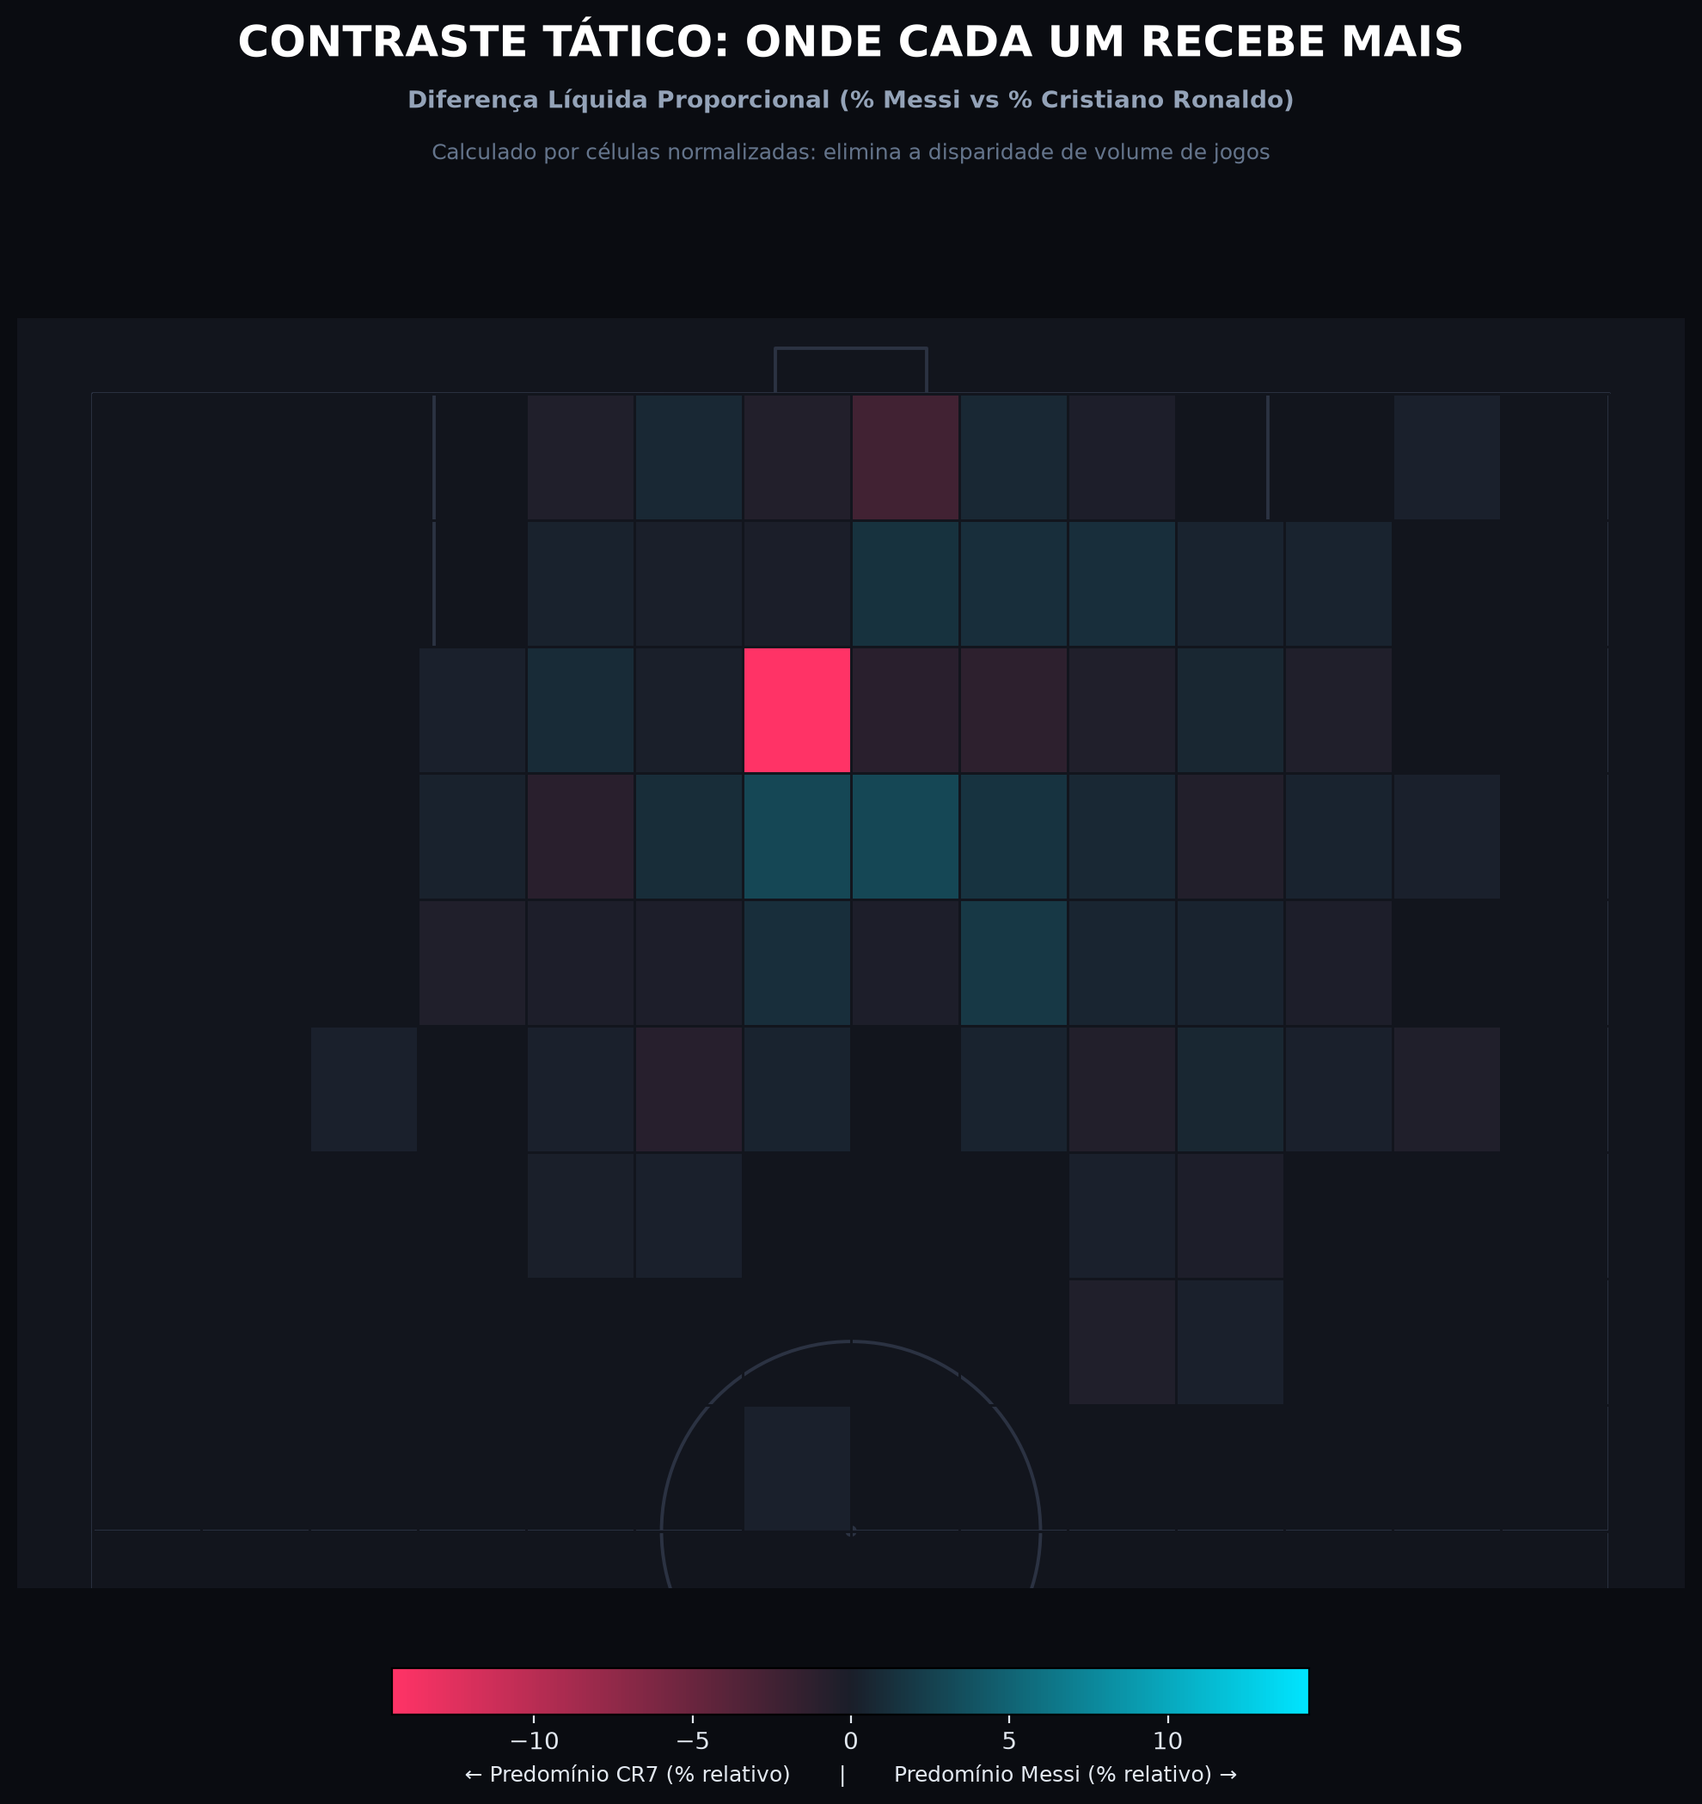
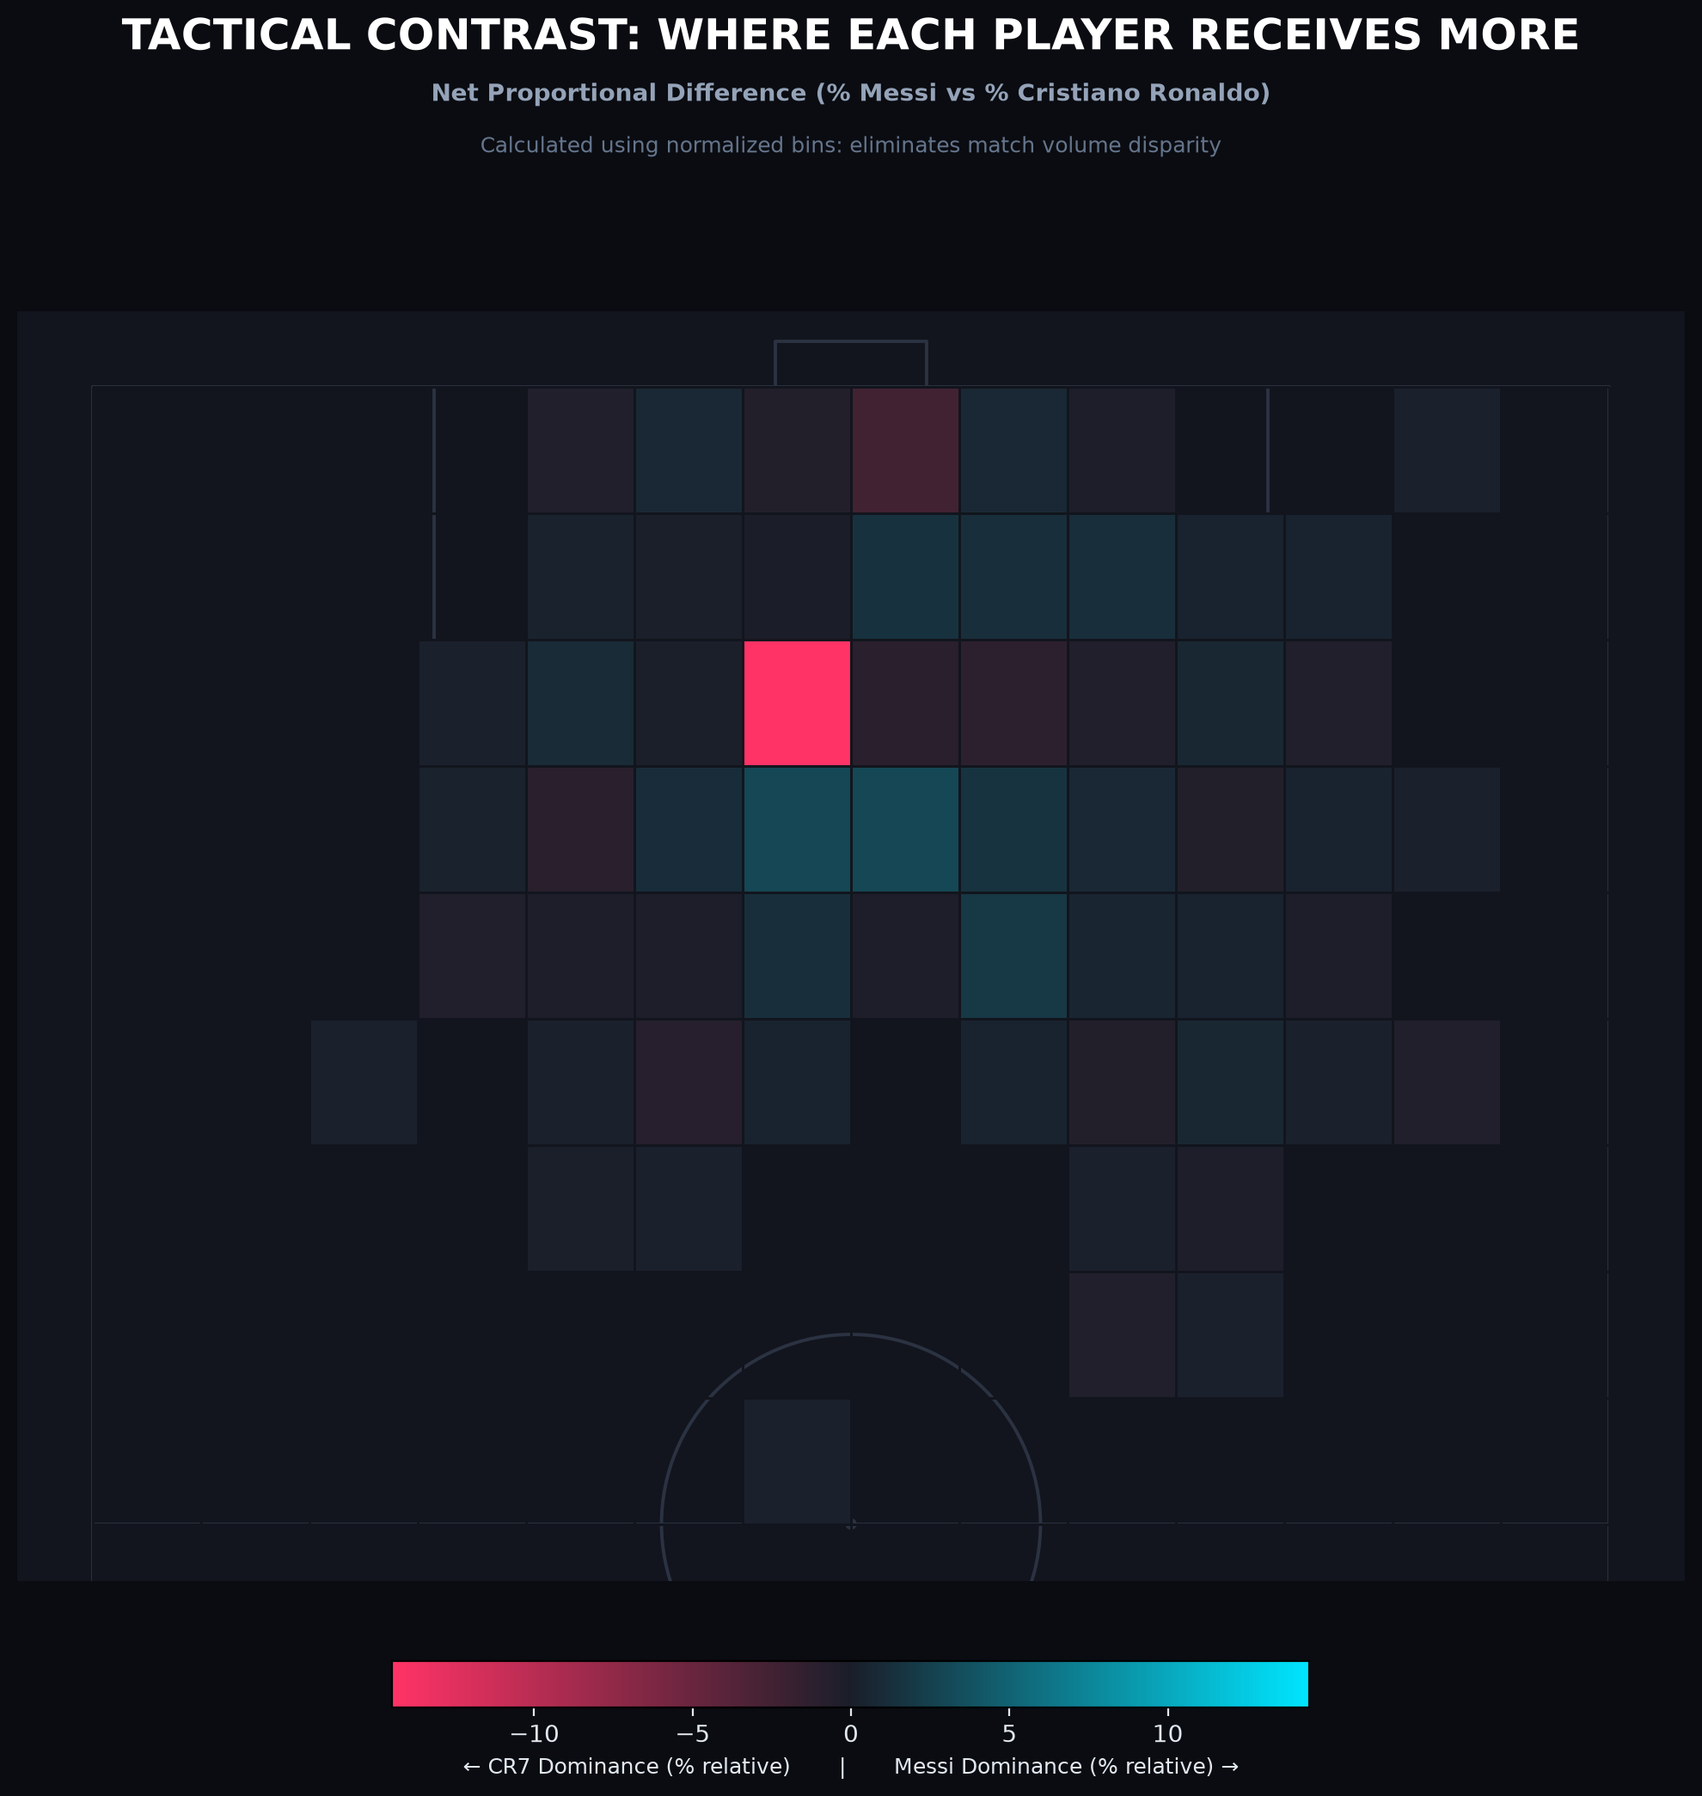
feat(assets): regenerate tactical charts with English annotations

diff --git a/visualizar_origem_gols_carreira.py b/visualizar_origem_gols_carreira.py
@@ -91,10 +91,10 @@ def plot_receipt_points_individual(df_goals, player_name, color, filename):
     )
     
     fig.text(0.5, 0.94, player_name.upper(), fontsize=21, fontweight="bold", color="#ffffff", ha="center")
-    fig.text(0.5, 0.915, "PONTOS DE RECEPÇÃO DA BOLA NOS LANCES DE GOL", fontsize=10, fontweight="bold", color=color, ha="center")
-    fig.text(0.5, 0.89, f"Total: {len(df_goals)} gols mapeados  |  Distância média da recepção: {avg_dist:.1f}m  |  StatsBomb & WhoScored/Opta",
+    fig.text(0.5, 0.915, "BALL RECEIPT LOCATIONS IN GOALSCORING ACTIONS", fontsize=10, fontweight="bold", color=color, ha="center")
+    fig.text(0.5, 0.89, f"Total: {len(df_goals)} Mapped Goals  |  Avg. Receipt Distance: {avg_dist:.1f}m  |  StatsBomb & WhoScored/Opta",
              fontsize=9, color="#94a3b8", ha="center")
-    fig.text(0.5, 0.05, "* 1º toque na posse individual final que culminou no gol (reseta caso passe a bola para outro jogador)",
+    fig.text(0.5, 0.05, "* 1st touch in the final individual possession preceding the goal (resets if passed to a teammate)",
              fontsize=8.5, fontstyle="italic", color="#64748b", ha="center")
     
     save_plot_dual(fig, filename)
@@ -124,7 +124,7 @@ def plot_side_by_side_comparison(df_messi, df_cr7, filename):
         s=65, color=COR_MESSI, edgecolors="#ffffff", linewidth=0.6, alpha=0.72, zorder=4, ax=axs[0]
     )
     axs[0].set_title(
-        f"LIONEL MESSI\n{len(df_messi)} Gols Mapeados | Dist. Média: {dist_m.mean():.1f}m",
+        f"LIONEL MESSI\n{len(df_messi)} Mapped Goals | Avg. Dist: {dist_m.mean():.1f}m",
         fontsize=14, fontweight="bold", color=COR_MESSI, pad=15
     )
     
@@ -135,17 +135,17 @@ def plot_side_by_side_comparison(df_messi, df_cr7, filename):
         s=75, color=COR_CRISTIANO, edgecolors="#ffffff", linewidth=0.7, alpha=0.8, zorder=4, ax=axs[1]
     )
     axs[1].set_title(
-        f"CRISTIANO RONALDO\n{len(df_cr7)} Gols Mapeados | Dist. Média: {dist_c.mean():.1f}m",
+        f"CRISTIANO RONALDO\n{len(df_cr7)} Mapped Goals | Avg. Dist: {dist_c.mean():.1f}m",
         fontsize=14, fontweight="bold", color=COR_CRISTIANO, pad=15
     )
     
     fig.suptitle(
-        "ORIGEM DOS GOLS: PONTOS DE RECEPÇÃO DA BOLA NA CARREIRA",
+        "GOAL ORIGINS: CAREER BALL RECEIPT LOCATIONS",
         fontsize=19, fontweight="bold", color="#ffffff", y=0.98
     )
     fig.text(
         0.5, 0.935,
-        "Comparação de 1º toque na posse individual final (reseta ao passar a bola) | Dados: StatsBomb & WhoScored/Opta",
+        "Comparison of 1st touch in final individual possession (resets upon pass) | Data: StatsBomb & WhoScored/Opta",
         fontsize=10, color="#94a3b8", ha="center"
     )
     
@@ -177,24 +177,24 @@ def plot_density_individual(df_goals, player_name, color, filename):
         jitter_x, jitter_y,
         s=55, color=color, edgecolors="#ffffff", linewidth=0.5, alpha=0.75, zorder=4, ax=axs[0]
     )
-    axs[0].set_title(f"DISPERSÃO INDIVIDUAL ({len(df_goals)} PONTOS COM JITTER)\nEvita que pontos idênticos fiquem ocultos",
+    axs[0].set_title(f"INDIVIDUAL SCATTER ({len(df_goals)} POINTS WITH JITTER)\nPrevents overlapping points from hiding",
                      fontsize=12, fontweight="bold", color=color, pad=15)
 
     hexmap = pitch.hexbin(
         df_goals["receipt_x"], df_goals["receipt_y"],
         ax=axs[1], edgecolors="#12151d", gridsize=(18, 18), cmap="magma", zorder=3, mincnt=1
     )
-    axs[1].set_title("MAPA DE DENSIDADE (HEXBIN)\nCores quentes indicam acúmulo de múltiplos gols",
+    axs[1].set_title("DENSITY MAP (HEXBIN)\nWarmer colors indicate accumulation of multiple goals",
                      fontsize=12, fontweight="bold", color="#ff70a6", pad=15)
 
     cbar = fig.colorbar(hexmap, ax=axs[1], orientation="vertical", shrink=0.6, pad=0.03)
-    cbar.set_label("Número de Gols Recebidos na Célula", color="#e2e8f0", fontsize=9)
+    cbar.set_label("Number of Goals Received in Cell", color="#e2e8f0", fontsize=9)
     cbar.ax.yaxis.set_tick_params(color="#e2e8f0")
     plt.setp(plt.getp(cbar.ax.axes, "yticklabels"), color="#e2e8f0")
 
-    fig.suptitle(f"EVIDÊNCIA E DENSIDADE DOS {len(df_goals)} GOLS DE {player_name.upper()}",
+    fig.suptitle(f"EVIDENCE & DENSITY OF {len(df_goals)} GOALS BY {player_name.upper()}",
                  fontsize=18, fontweight="bold", color="#ffffff", y=0.98)
-    fig.text(0.5, 0.94, "Posição do 1º toque na posse individual final | StatsBomb & WhoScored/Opta",
+    fig.text(0.5, 0.94, "Position of 1st touch in final individual possession | StatsBomb & WhoScored/Opta",
              fontsize=10, color="#94a3b8", ha="center")
 
     save_plot_dual(fig, filename)
@@ -240,7 +240,7 @@ def plot_normalized_percentage_comparison(df_messi, df_cr7, filename):
         vmin=0, vmax=shared_vmax, zorder=3, mincnt=1
     )
     axs[0].set_title(
-        f"LIONEL MESSI ({n_m} Gols)\nFrequência Relativa de Recepção por Zona",
+        f"LIONEL MESSI ({n_m} Goals)\nRelative Receipt Frequency by Zone",
         fontsize=13, fontweight="bold", color=COR_MESSI, pad=15
     )
 
@@ -252,21 +252,21 @@ def plot_normalized_percentage_comparison(df_messi, df_cr7, filename):
         vmin=0, vmax=shared_vmax, zorder=3, mincnt=1
     )
     axs[1].set_title(
-        f"CRISTIANO RONALDO ({n_c} Gols)\nFrequência Relativa de Recepção por Zona",
+        f"CRISTIANO RONALDO ({n_c} Goals)\nRelative Receipt Frequency by Zone",
         fontsize=13, fontweight="bold", color=COR_CRISTIANO, pad=15
     )
 
     cbar_ax = fig.add_axes([0.92, 0.25, 0.015, 0.5])
     cbar = fig.colorbar(hb_c, cax=cbar_ax)
-    cbar.set_label("% do Total de Gols do Jogador que Originaram na Célula", color="#e2e8f0", fontsize=9.5)
+    cbar.set_label("% of Player's Total Goals Originating in Cell", color="#e2e8f0", fontsize=9.5)
     cbar.ax.yaxis.set_tick_params(color="#e2e8f0")
     plt.setp(plt.getp(cbar.ax.axes, "yticklabels"), color="#e2e8f0")
 
-    fig.suptitle("COMPARAÇÃO PROPORCIONAL NORMALIZADA (% DOS GOLS)",
+    fig.suptitle("NORMALIZED PROPORTIONAL COMPARISON (% OF GOALS)",
                  fontsize=18, fontweight="bold", color="#ffffff", y=0.98)
     fig.text(
         0.5, 0.935,
-        "Dados normalizados pelo total individual de cada jogador (elimina viés de amostra) | Escala idêntica de 0 a " + f"{shared_vmax:.1f}%",
+        f"Data normalized by each player's individual total (eliminates sample size bias) | Identical scale: 0 to {shared_vmax:.1f}%",
         fontsize=10, color="#94a3b8", ha="center"
     )
 
@@ -315,12 +315,12 @@ def plot_tactical_contrast_map(df_messi, df_cr7, filename):
         edgecolors="#12151d", linewidth=0.5
     )
 
-    fig.text(0.5, 0.94, "CONTRASTE TÁTICO: ONDE CADA UM RECEBE MAIS", fontsize=18, fontweight="bold", color="#ffffff", ha="center")
-    fig.text(0.5, 0.915, "Diferença Líquida Proporcional (% Messi vs % Cristiano Ronaldo)", fontsize=10, fontweight="bold", color="#94a3b8", ha="center")
-    fig.text(0.5, 0.89, "Calculado por células normalizadas: elimina a disparidade de volume de jogos", fontsize=9, color="#64748b", ha="center")
+    fig.text(0.5, 0.94, "TACTICAL CONTRAST: WHERE EACH PLAYER RECEIVES MORE", fontsize=18, fontweight="bold", color="#ffffff", ha="center")
+    fig.text(0.5, 0.915, "Net Proportional Difference (% Messi vs % Cristiano Ronaldo)", fontsize=10, fontweight="bold", color="#94a3b8", ha="center")
+    fig.text(0.5, 0.89, "Calculated using normalized bins: eliminates match volume disparity", fontsize=9, color="#64748b", ha="center")
 
     cbar = fig.colorbar(heatmap, ax=ax, orientation="horizontal", shrink=0.55, pad=0.04)
-    cbar.set_label("← Predomínio CR7 (% relativo)       |       Predomínio Messi (% relativo) →", color="#e2e8f0", fontsize=9)
+    cbar.set_label("← CR7 Dominance (% relative)       |       Messi Dominance (% relative) →", color="#e2e8f0", fontsize=9)
     cbar.ax.xaxis.set_tick_params(color="#e2e8f0")
     plt.setp(plt.getp(cbar.ax.axes, "xticklabels"), color="#e2e8f0")
 
@@ -354,7 +354,7 @@ def plot_kde_comparison(df_messi, df_cr7, filename):
         s=12, color=COR_MESSI, alpha=0.3, zorder=3, ax=axs[0]
     )
     axs[0].set_title(
-        f"LIONEL MESSI ({len(df_messi)} Gols)\nZonas de Densidade Contínua (KDE)",
+        f"LIONEL MESSI ({len(df_messi)} Goals)\nContinuous Density Surface (KDE)",
         fontsize=13, fontweight="bold", color=COR_MESSI, pad=15
     )
 
@@ -368,13 +368,13 @@ def plot_kde_comparison(df_messi, df_cr7, filename):
         s=15, color=COR_CRISTIANO, alpha=0.3, zorder=3, ax=axs[1]
     )
     axs[1].set_title(
-        f"CRISTIANO RONALDO ({len(df_cr7)} Gols)\nZonas de Densidade Contínua (KDE)",
+        f"CRISTIANO RONALDO ({len(df_cr7)} Goals)\nContinuous Density Surface (KDE)",
         fontsize=13, fontweight="bold", color=COR_CRISTIANO, pad=15
     )
 
-    fig.suptitle("DENSIDADE CONTÍNUA DE RECEPÇÃO (KDE / HEATMAP SUAVE)",
+    fig.suptitle("CONTINUOUS RECEIPT DENSITY (KDE / SMOOTH HEATMAP)",
                  fontsize=18, fontweight="bold", color="#ffffff", y=0.98)
-    fig.text(0.5, 0.94, "Superfície de probabilidade contínua independente do número bruto de amostras",
+    fig.text(0.5, 0.94, "Continuous spatial probability surface independent of raw sample count",
              fontsize=10, color="#94a3b8", ha="center")
 
     save_plot_dual(fig, filename)
@@ -384,15 +384,15 @@ def plot_kde_comparison(df_messi, df_cr7, filename):
 # FLUXO PRINCIPAL
 # ==============================================================================
 def main():
-    parser = argparse.ArgumentParser(description="Análise e Visualização da Origem dos Gols: Messi vs Cristiano Ronaldo")
+    parser = argparse.ArgumentParser(description="Analysis and Visualization of Goal Origins: Messi vs Cristiano Ronaldo")
     parser.add_argument("--jogador", type=str, default="ambos", choices=["messi", "cristiano", "ambos"],
-                        help="Jogador a plotar: 'messi', 'cristiano' ou 'ambos'")
+                        help="Player to plot: 'messi', 'cristiano', or 'ambos'")
     parser.add_argument("--densidade", action="store_true", default=False,
-                        help="Gerar mapas de densidade hexbin individuais e comparativos")
+                        help="Generate individual and comparative hexbin density maps")
     parser.add_argument("--normalizado", action="store_true", default=False,
-                        help="Gerar comparacoes 100%% normalizadas (frequencia relativa e contraste) para anular a diferenca amostral")
+                        help="Generate 100%% normalized comparisons (relative frequency & tactical contrast)")
     parser.add_argument("--todos", action="store_true", default=False,
-                        help="Gerar TODOS os gráficos (dispersão, densidade, normalizados e contraste)")
+                        help="Generate ALL charts (scatter, density, normalized, contrast, KDE)")
     args = parser.parse_args()
     
     path_messi = get_data_path("messi_goals.pkl")
@@ -400,7 +400,7 @@ def main():
     path_cr7_ws = get_data_path("cr7_whoscored_goals.pkl")
     
     if not os.path.exists(path_messi) or not os.path.exists(path_cr7_sb):
-        print(f"[ERRO] Arquivos de dados não encontrados em data/ ou na raiz.")
+        print(f"[ERROR] Data files not found in data/ or root directory.")
         sys.exit(1)
         
     df_messi = pd.read_pickle(path_messi)
@@ -413,15 +413,15 @@ def main():
         df_cr7_ws = pd.DataFrame(cr7_ws_data)
         df_cr7 = pd.concat([df_cr7_sb[cols], df_cr7_ws[cols]], ignore_index=True)
         print("=" * 70)
-        print("Mapeamento de Recepção nos Gols da Carreira (StatsBomb + WhoScored/Opta)")
+        print("Career Ball Receipt Mapping in Goalscoring Plays (StatsBomb + WhoScored/Opta)")
         print("=" * 70)
-        print(f"-> Lionel Messi: {len(df_messi)} gols mapeados (StatsBomb Open Data)")
-        print(f"-> Cristiano Ronaldo: {len(df_cr7)} gols mapeados ({len(df_cr7_sb)} StatsBomb + {len(df_cr7_ws)} WhoScored/Opta)")
+        print(f"-> Lionel Messi: {len(df_messi)} mapped goals (StatsBomb Open Data)")
+        print(f"-> Cristiano Ronaldo: {len(df_cr7)} mapped goals ({len(df_cr7_sb)} StatsBomb + {len(df_cr7_ws)} WhoScored/Opta)")
         print("-" * 70)
     else:
         df_cr7 = df_cr7_sb[cols]
-        print(f"-> Lionel Messi: {len(df_messi)} gols mapeados")
-        print(f"-> Cristiano Ronaldo: {len(df_cr7)} gols mapeados")
+        print(f"-> Lionel Messi: {len(df_messi)} mapped goals")
+        print(f"-> Cristiano Ronaldo: {len(df_cr7)} mapped goals")
 
     # 1. Gráficos de Dispersão Limpos
     if args.jogador in ["messi", "ambos"]:
@@ -443,29 +443,29 @@ def main():
             fig, axs = pitch.draw(nrows=1, ncols=2, figsize=(16, 11))
             fig.set_facecolor("#0a0c11")
             hex_m = pitch.hexbin(df_messi["receipt_x"], df_messi["receipt_y"], ax=axs[0], edgecolors="#12151d", gridsize=(18, 18), cmap="magma", zorder=3, mincnt=1)
-            axs[0].set_title(f"LIONEL MESSI ({len(df_messi)} GOLS)\nConcentração: Entrada da Área e Zona 14", fontsize=13, fontweight="bold", color=COR_MESSI, pad=15)
+            axs[0].set_title(f"LIONEL MESSI ({len(df_messi)} GOALS)\nConcentration: Box Edge & Zone 14", fontsize=13, fontweight="bold", color=COR_MESSI, pad=15)
             cbar_m = fig.colorbar(hex_m, ax=axs[0], orientation="vertical", shrink=0.6, pad=0.03)
-            cbar_m.set_label("Gols na Célula", color="#e2e8f0", fontsize=9)
+            cbar_m.set_label("Goals in Cell", color="#e2e8f0", fontsize=9)
             cbar_m.ax.yaxis.set_tick_params(color="#e2e8f0")
             plt.setp(plt.getp(cbar_m.ax.axes, "yticklabels"), color="#e2e8f0")
             hex_c = pitch.hexbin(df_cr7["receipt_x"], df_cr7["receipt_y"], ax=axs[1], edgecolors="#12151d", gridsize=(18, 18), cmap="magma", zorder=3, mincnt=1)
-            axs[1].set_title(f"CRISTIANO RONALDO ({len(df_cr7)} GOLS)\nConcentração: Centro da Grande Área e Marca do Pênalti", fontsize=13, fontweight="bold", color=COR_CRISTIANO, pad=15)
+            axs[1].set_title(f"CRISTIANO RONALDO ({len(df_cr7)} GOALS)\nConcentration: Center of Box & Penalty Spot", fontsize=13, fontweight="bold", color=COR_CRISTIANO, pad=15)
             cbar_c = fig.colorbar(hex_c, ax=axs[1], orientation="vertical", shrink=0.6, pad=0.03)
-            cbar_c.set_label("Gols na Célula", color="#e2e8f0", fontsize=9)
+            cbar_c.set_label("Goals in Cell", color="#e2e8f0", fontsize=9)
             cbar_c.ax.yaxis.set_tick_params(color="#e2e8f0")
             plt.setp(plt.getp(cbar_c.ax.axes, "yticklabels"), color="#e2e8f0")
-            fig.suptitle("COMPARAÇÃO DE DENSIDADE TÁTICA: PONTOS DE RECEPÇÃO NA CARREIRA", fontsize=18, fontweight="bold", color="#ffffff", y=0.98)
+            fig.suptitle("TACTICAL DENSITY COMPARISON: CAREER BALL RECEIPT LOCATIONS", fontsize=18, fontweight="bold", color="#ffffff", y=0.98)
             save_plot_dual(fig, "comparacao_densidade_messi_cristiano.png")
 
     # 2. Gráficos de Normalização Estatística e Contraste
     if args.normalizado or args.todos:
-        print("-> Gerando análises normalizadas (% relativa, contraste tático e KDE)...")
+        print("-> Generating normalized analyses (relative %, tactical contrast, and KDE)...")
         plot_normalized_percentage_comparison(df_messi, df_cr7, "comparacao_normalizada_percentual.png")
         plot_tactical_contrast_map(df_messi, df_cr7, "contraste_tatico_messi_vs_cr7.png")
         plot_kde_comparison(df_messi, df_cr7, "comparacao_kde_suave.png")
 
     print("=" * 70)
-    print("Processamento concluído com sucesso!")
+    print("Processing completed successfully!")
     print("=" * 70)
 
 if __name__ == "__main__":
